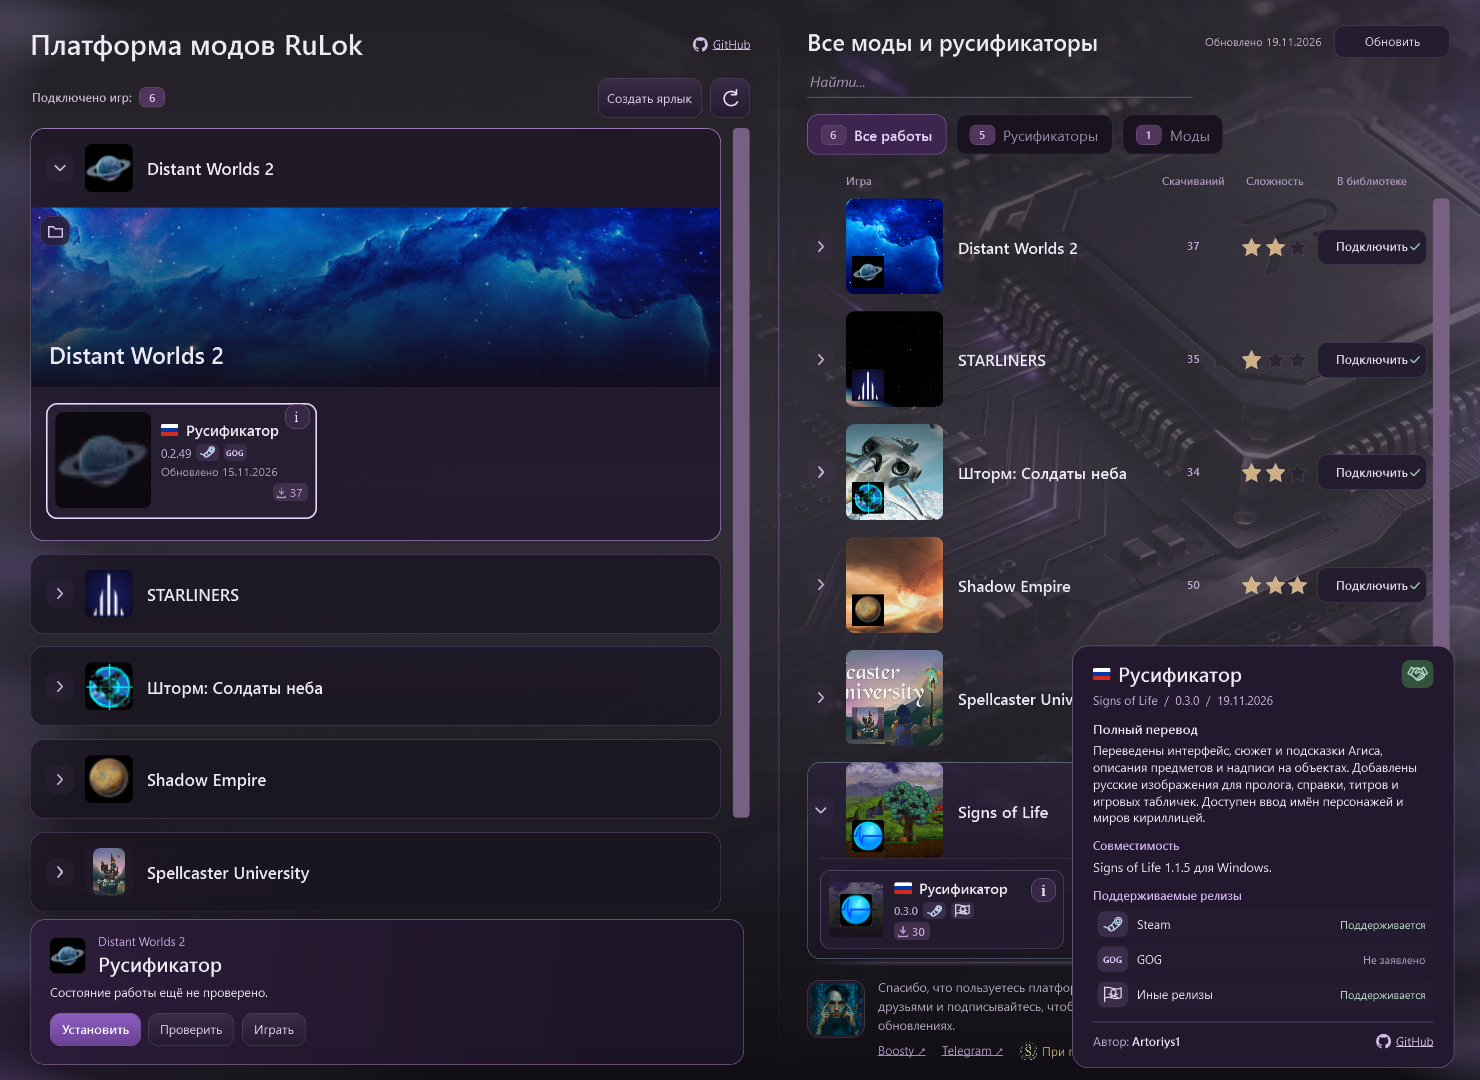
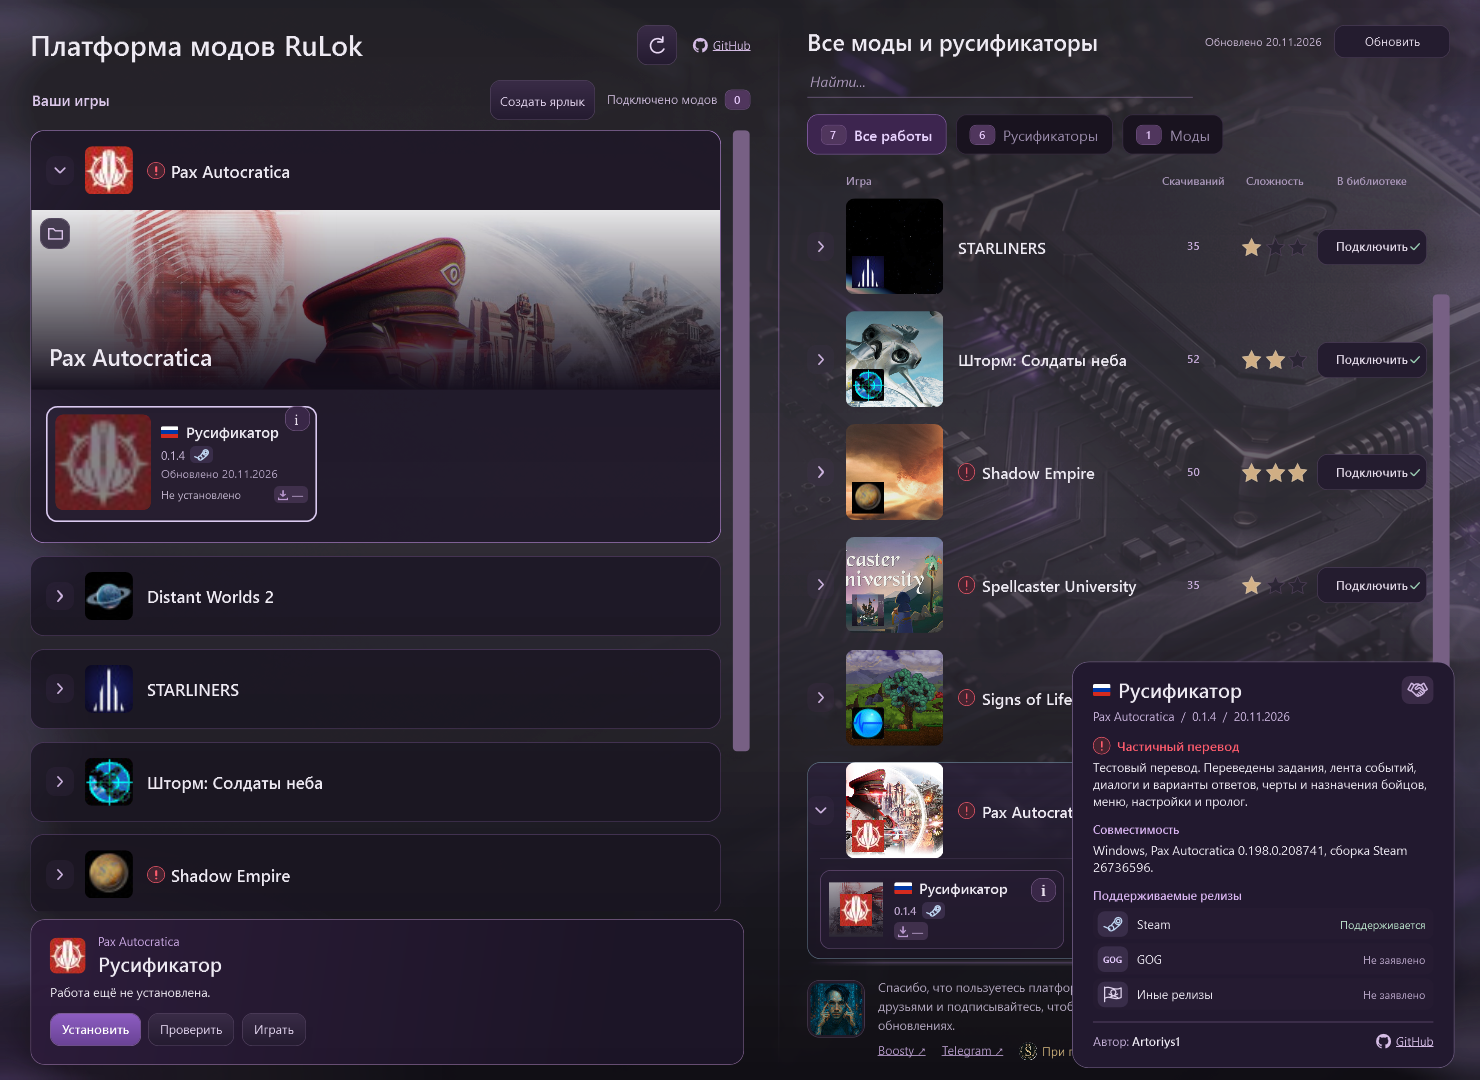
Общие доработки

diff --git a/README.md b/README.md
@@ -2,11 +2,11 @@
 
 Моды и русификаторы Artoriys1.
 
-[Скачать RuLok 0.6.25 для Windows](https://github.com/Artoriys1/RuLok-Releases/releases/download/platform-0-6-25-20261120/RuLok-Platform-0.6.25.zip) ([SHA-256](https://github.com/Artoriys1/RuLok-Releases/releases/download/platform-0-6-25-20261120/RuLok-Platform-0.6.25.zip.sha256))
+[Скачать RuLok 0.6.26 для Windows](https://github.com/Artoriys1/RuLok-Releases/releases/download/platform-0-6-26-20261120/RuLok-Platform-0.6.26.zip) ([SHA-256](https://github.com/Artoriys1/RuLok-Releases/releases/download/platform-0-6-26-20261120/RuLok-Platform-0.6.26.zip.sha256))
 
-✅ Для первого запуска распакуйте ZIP целиком в отдельную папку и запустите `Setup-RuLok-Hub-0.6.25.exe`. Можно быстро добавить ярлык на рабочий стол по кнопке «Создать ярлык».
+✅ Для первого запуска распакуйте ZIP целиком в отдельную папку и запустите `Setup-RuLok-Hub-0.6.26.exe`. Можно быстро добавить ярлык на рабочий стол по кнопке «Создать ярлык».
 
-Нажмите на круговую кнопку слева от GitHub, чтобы проверить обновления платформы и скачать их. Для старых версий со снятым каналом используйте актуальный ZIP. Добавляйте игры из правой половины по кнопке «Подключить». Через ту же кнопку можно подключить ещё одну папку той же игры. Постоянно перекачивать архивы вручную для игр или платформы не нужно. Кнопка «Обновить» в правой части подгрузит актуальный список игр и модов для них. Управляйте играми и обновляйте переводы, когда они выйдут.
+Нажмите на круговую кнопку слева от GitHub, чтобы проверить обновления платформы и скачать их. Если ваша версия RuLok слишком старая для автоматического обновления, [скачайте полный ZIP с GitHub](https://github.com/Artoriys1/RuLok-Releases/releases/download/platform-0-6-26-20261120/RuLok-Platform-0.6.26.zip). Добавляйте игры из правой половины по кнопке «Подключить». Через ту же кнопку можно подключить ещё одну папку той же игры. Постоянно перекачивать архивы вручную для игр или платформы не нужно. Кнопка «Обновить» в правой части подгрузит актуальный список игр и модов для них. Управляйте играми и обновляйте переводы, когда они выйдут.
 
 Поле «Найти...» ищет в выбранной вкладке каталога. В карточке подключённой игры нажмите «Проверить», чтобы сверить версию работы и узнать, доступно ли обновление.
 
@@ -14,9 +14,9 @@
 
 ➡ Подписаться на телеграм, где рассказываю о разработке своей игры и делюсь творчеством — https://t.me/neyrodzen
 
-![Главное окно RuLok 0.6.22 с библиотекой и каталогом](preview/window.png)
+![Главное окно RuLok 0.6.26 с библиотекой и каталогом](preview/window.png)
 
-![Описание русификатора Signs of Life в RuLok 0.6.22](preview/work-info.png)
+![Карточка русификатора Pax Autocratica в RuLok 0.6.26](preview/work-info.png)
 
 ## Все моды и русификаторы RuLok
 
